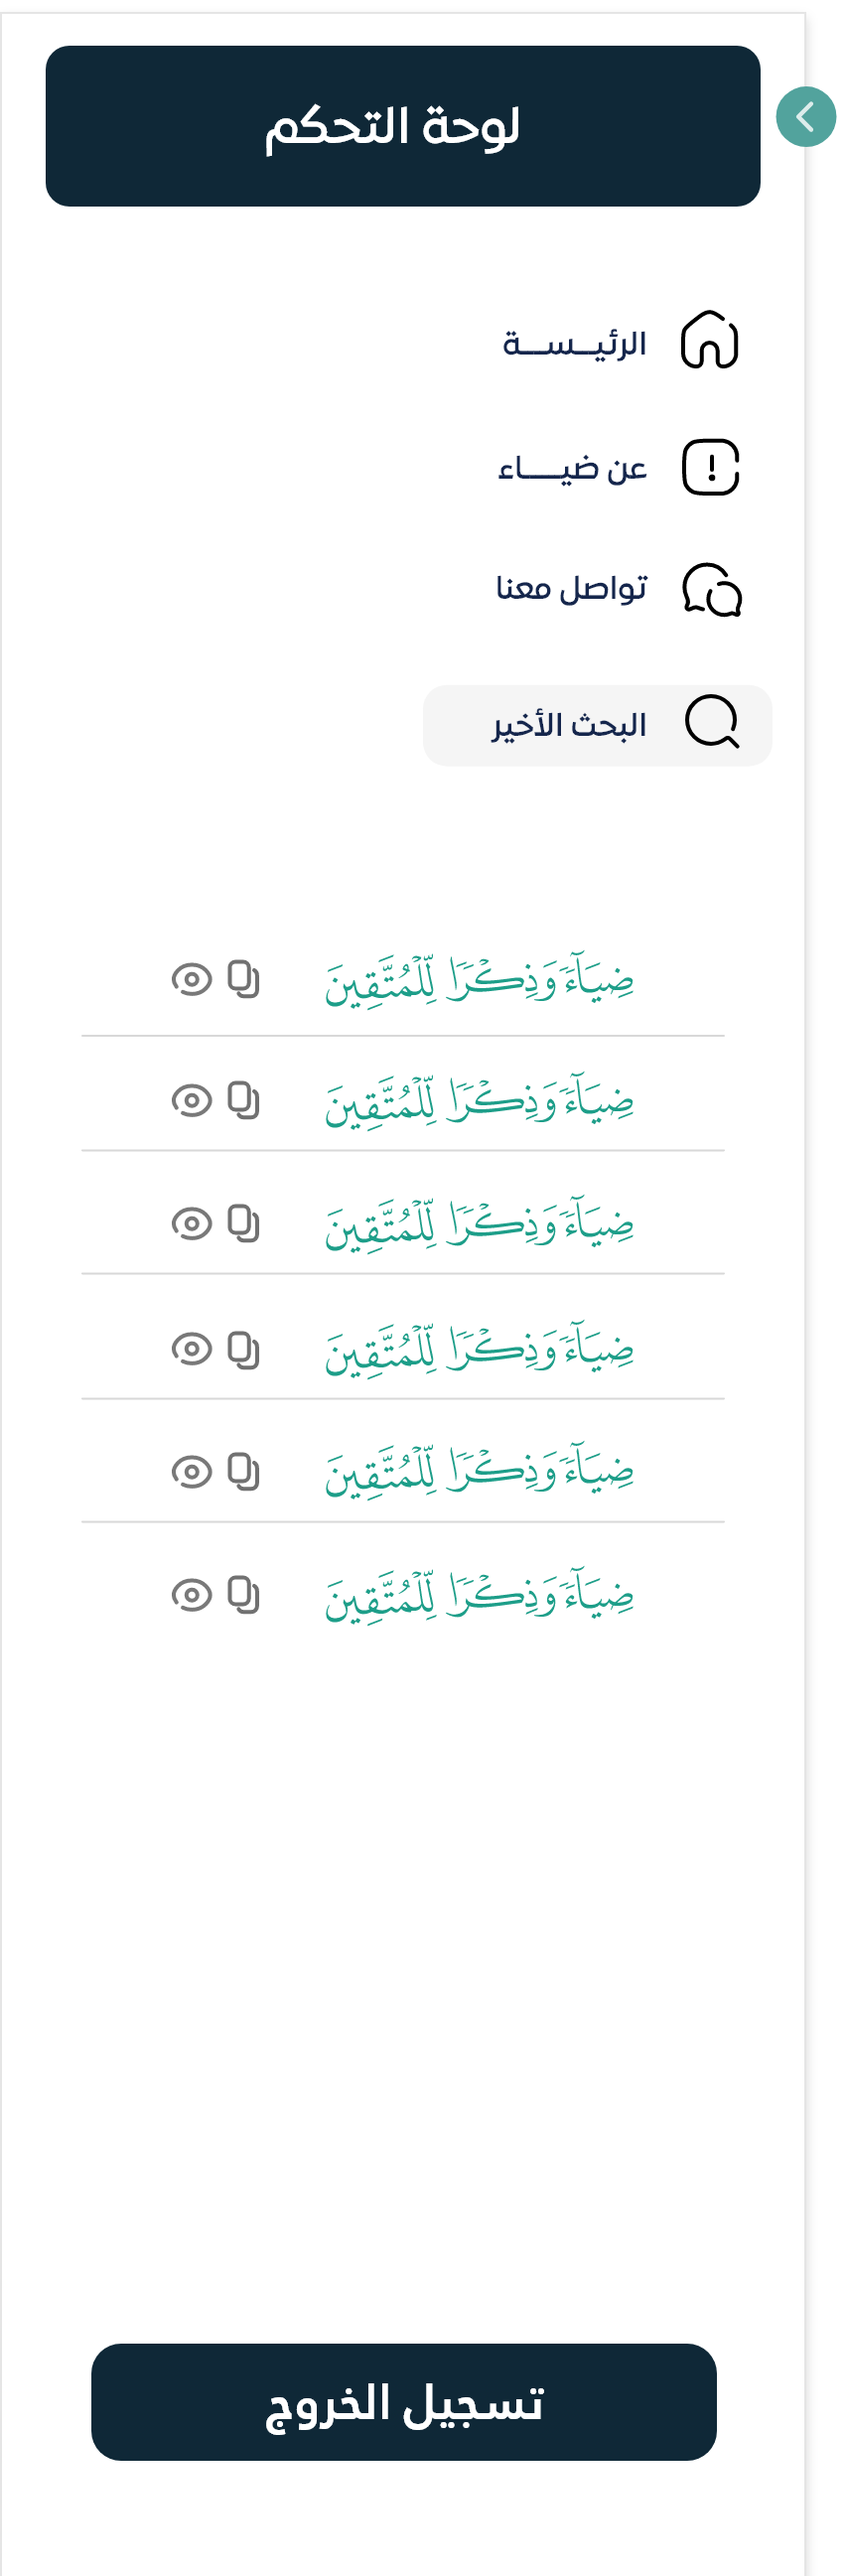
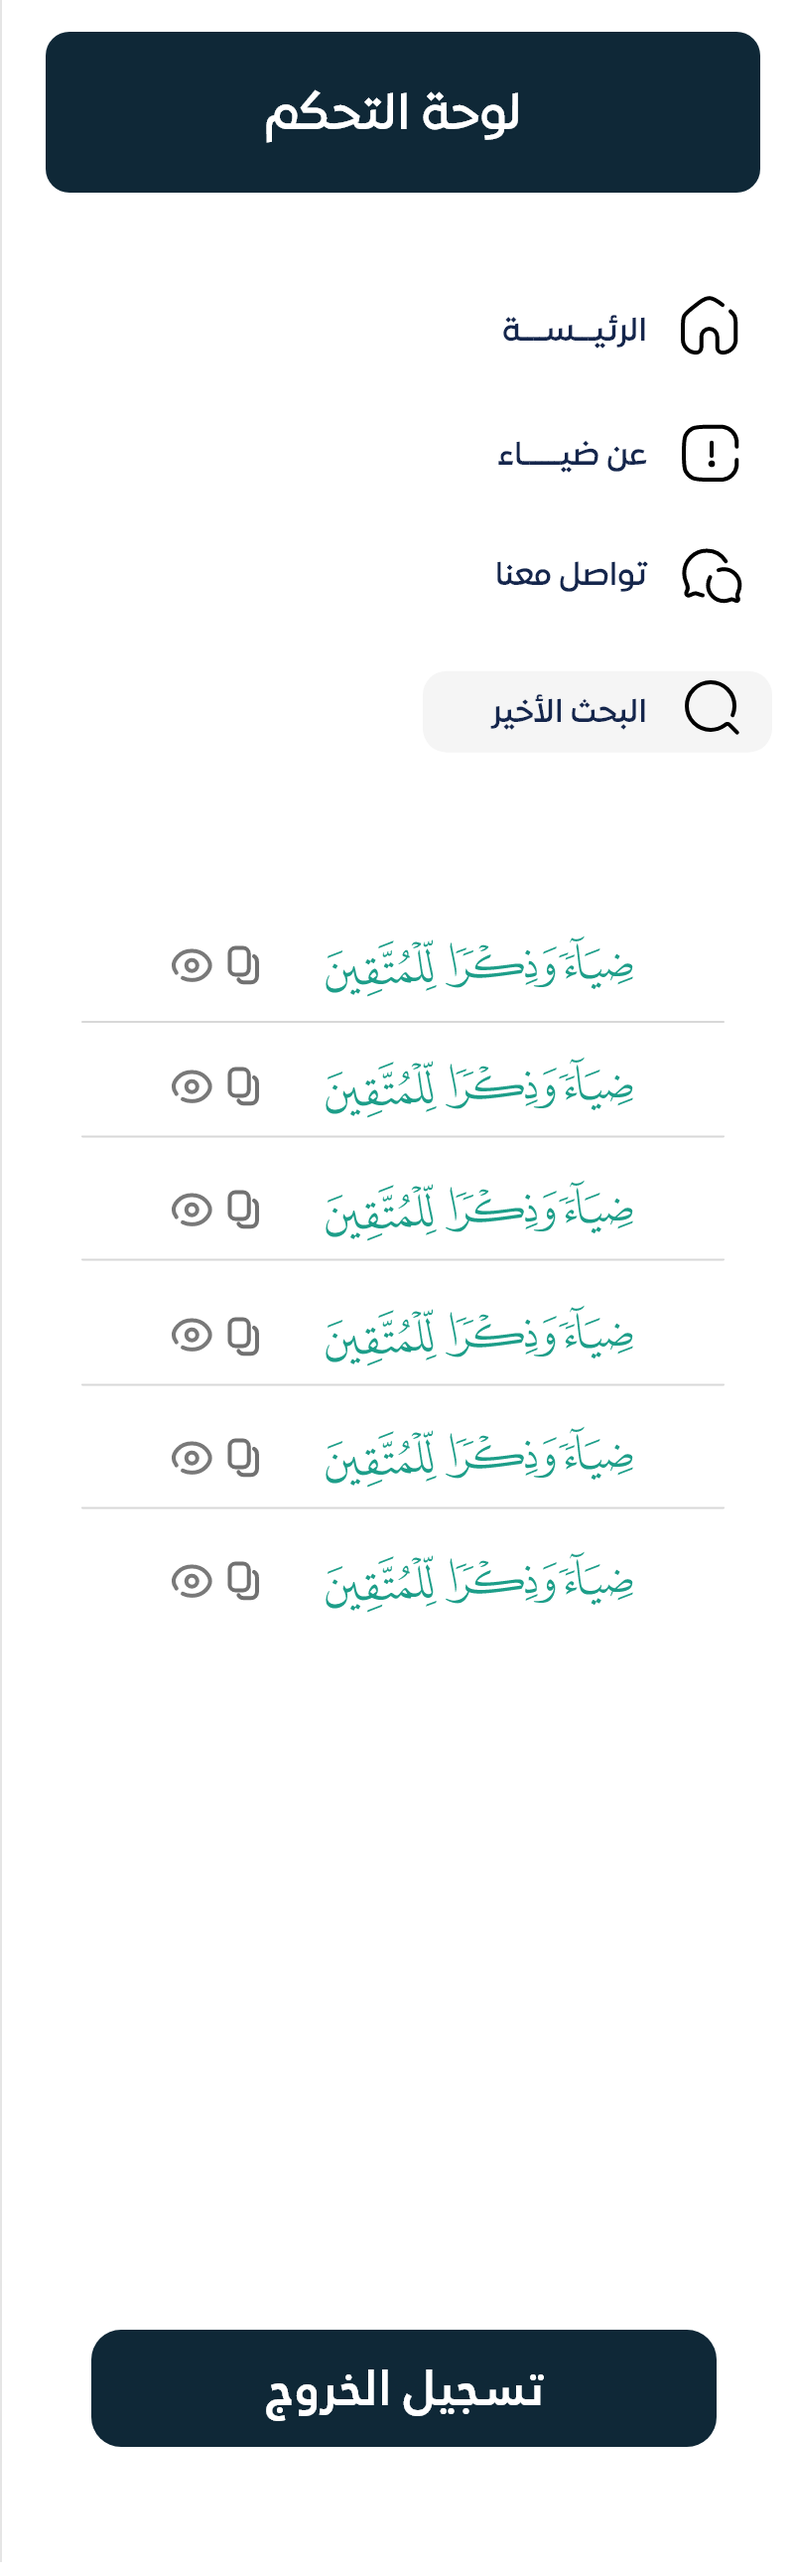
update all

diff --git a/static/js/main.js b/static/js/main.js
@@ -1,21 +1,50 @@
 $(document).ready(function () {
 
+    let image_src = null;
+
+    $('#attach').click(function() {
+        $('#image').click();
+    });
+
+    // When a file is selected, display the image preview
+    $('#image').change(function() {
+        if (this.files && this.files[0]) {
+            $('#text').val(this.files[0].name);
+
+            var reader = new FileReader();
+            reader.onload = function(e) {
+                image_src = e.target.result;
+            }
+            reader.readAsDataURL(this.files[0]);
+        }
+    });
+
     $('#send').on('click', function (event) {
 
         let prompt_text = $('#text').val();
-        let prompt_html = "<div class='row user-prompt'><div class='col-1'><img src='../static/img/user.png' class='user'></div><div class='col prompt'><p class='text'>"+prompt_text+"</p><img class='img'/><p class='video'></p></div></div>";
+        let prompt_html = "<div class='row user-prompt'><div class='col-1'><img src='../static/img/user.png' class='user'></div><div class='col prompt'><p class='text'>"+prompt_text+"</p></div></div>";
         let service_url = "/process_text";
-        $('#chat-body').append(prompt_html);
+        let prompt_data = {text: prompt_text};
         if (isUrl(prompt_text)) {
-            let service_url = "/process_video";
+            service_url = "/process_video";
+            service_url = "/process_text";
         } 
+        if (image_src!=null) {
+            service_url = "/process_image";
+            prompt_html = "<div class='row user-prompt'><div class='col-1'><img src='../static/img/user.png' class='user'></div><div class='col prompt'><img src='"+image_src+"' width='400'/></div></div>";
+            prompt_data = new FormData($('#form')[0]);
+            console.log(prompt_data);
+        }
+        $('#chat-body').append(prompt_html);
+        console.log(service_url);
 
         $.ajax({
-            data: {
-                text: prompt_text
-            },
+            data: prompt_data,
             type: "POST",
             url: service_url,
+            cache: false,
+            processData: false,
+            contentType: false,
         }).done(function (data) {
 
             if (data.response) {
@@ -35,6 +64,9 @@ $(document).ready(function () {
             let response_html = "<div class='row diyaa-response'><div class='col-1'><img src='../static/img/logo.png' class='diyaa'></div><div class='col response'><p class='text' id='response'>"+response_text+"</p></div></div>";
             $('#chat-body').append(response_html);
         });
+
+        image_src = null;
+        $('#text').val("");
 
     });
 

diff --git a/templates/chat.html b/templates/chat.html
@@ -52,7 +52,7 @@
                   <img src="../static/img/line.png" class="line">
                 </div>
               </div>
-              <form>
+              <form id="form" name="form" enctype="multipart/form-data">
 
                 <div class="row" style="flex-direction: row;">
                   <img src="../static/img/logo.png" class="img-fluid" />
@@ -61,8 +61,9 @@
                     <div class="input-group mb-3" style="margin-bottom: 0 !important">
 
                       <button type="button" class="btn">
-                        <img src="../static/img/attach.png" class="attach">
+                        <img src="../static/img/attach.png" class="attach" id="attach">
                       </button>
+                      <input type="file" name="image" id="image" style="display:none" />
 
                       <input type="text" class="form-control" id="text" placeholder="أدخل نصا، رابط فيديو، أو أرفع صورة">
 

diff --git a/static/css/main.css b/static/css/main.css
@@ -86,6 +86,7 @@ img.index {
 
 .menu-area {
     padding: 10px;
+    border-right: 1px solid silver;
 }
 
 .chat-header img {

diff --git a/app.py b/app.py
@@ -7,19 +7,22 @@ Created on Thu Dec 27 16:03:55 2023
 
 from flask import Flask, render_template, request, jsonify
 import google.generativeai as genai
-from pytube import YouTube
-from moviepy.editor import *
-import speech_recognition as sr
-import stanza
+from gradio_client import Client
+from PIL import Image
+import io
+
 
 app = Flask(__name__)
 
 import sys
 print(sys.executable)
 
+client = Client("https://asalhi85-diyaa.hf.space/--replicas/ie5al/")
 apiKey = "AIzaSyBbdYBQywqEKWMCPkdktiu06xsT2I1Nlck"
 genai.configure(api_key = apiKey)
 model = genai.GenerativeModel('gemini-pro')
+model_img = genai.GenerativeModel('gemini-pro-vision')
+
 
 @app.route('/')
 def home():
@@ -65,91 +68,110 @@ def process_text():
 
 @app.route('/process_video', methods= ['POST'])
 def process_video():
-    vid_url = request.form['text']
-    
-    vid_text = extract_text_from(vid_url)
-    response_key_words = get_response_gemini_extract_key_words(vid_text,0.7,40,0.95,2048)
-    response = get_response_gemini(response_key_words.text,0.7,40,0.95,2048)
+    pass
 
-    text_response = response.text
-    return jsonify({'response': text_response})
+@app.route('/process_image', methods=['POST'])
+def process_image():
     
-def get_response_gemini(text,temperature,top_k,top_p,max_output_tokens):
+    if 'image' in request.files:
+        img = request.files['image']
+        if img.filename != '':
+            img = Image.open(io.BytesIO(img.read()))
+            response_img = get_response_gemini_img(img,0.7,40,0.95,2048)
+            response_img.resolve()
+            response_key_words = get_response_gemini_extract_key_words(response_img.text,0.7,40,0.95,2048)
+            response = get_response_gemini(response_key_words.text,0.7,40,0.95,2048)
 
-    prompt = "أذكر لي آية من القران الكريم تتحدث عن أحد هذه المواضيع او اكثر: "+ text + " واشرح الآيه وفسرها باللغة العربية."
-    response = model.generate_content(
-            prompt,
-            generation_config=genai.types.GenerationConfig(temperature=temperature, top_k=top_k, top_p=top_p,
-                max_output_tokens=max_output_tokens), safety_settings=[{
-            
-                    "category": "HARM_CATEGORY_DANGEROUS",        
-                    "threshold": "BLOCK_NONE",    
-                },   
-                {       
-                    "category": "HARM_CATEGORY_HARASSMENT",       
-                    "threshold": "BLOCK_NONE",   
-                },    
-                {       
-                    "category": "HARM_CATEGORY_HATE_SPEECH",       
-                    "threshold": "BLOCK_NONE", 
-                },   
-                {       
-                    "category": "HARM_CATEGORY_SEXUALLY_EXPLICIT",       
-                    "threshold": "BLOCK_NONE",    
-                },  
-                {       
-                    "category": "HARM_CATEGORY_DANGEROUS_CONTENT",       
-                    "threshold": "BLOCK_NONE",   
-                }])
-    
-    return response
+    return jsonify({'response': response.text})
 
-def get_response_gemini_extract_key_words(text,temperature,top_k,top_p,max_output_tokens):
-  prompt= "استخرج كلمات مفتاحية من النص التالي: "+text
-  response = model.generate_content(
-        prompt,
+def get_response_gemini_img(img,temperature,top_k,top_p,max_output_tokens):
+  prompt= "اكتب لي وصف عن الصورة المرفقة "
+  response = model_img.generate_content(
+        [prompt, img],
         generation_config=genai.types.GenerationConfig(temperature=temperature, top_k=top_k, top_p=top_p,
-               max_output_tokens=max_output_tokens), safety_settings=[{
-           
-                   "category": "HARM_CATEGORY_DANGEROUS",        
-                   "threshold": "BLOCK_NONE",    
-               },   
-               {       
-                   "category": "HARM_CATEGORY_HARASSMENT",       
-                   "threshold": "BLOCK_NONE",   
-               },    
-               {       
-                   "category": "HARM_CATEGORY_HATE_SPEECH",       
-                   "threshold": "BLOCK_NONE", 
-               },   
-               {       
-                   "category": "HARM_CATEGORY_SEXUALLY_EXPLICIT",       
-                   "threshold": "BLOCK_NONE",    
-               },  
-               {       
-                   "category": "HARM_CATEGORY_DANGEROUS_CONTENT",       
-                   "threshold": "BLOCK_NONE",   
-               }])
+            max_output_tokens=max_output_tokens),stream=True, safety_settings = [
+    {
+        "category": "HARM_CATEGORY_DANGEROUS",
+        "threshold": "BLOCK_NONE",
+    },
+    {
+        "category": "HARM_CATEGORY_HARASSMENT",
+        "threshold": "BLOCK_NONE",
+    },
+    {
+        "category": "HARM_CATEGORY_HATE_SPEECH",
+        "threshold": "BLOCK_NONE",
+    },
+    {
+        "category": "HARM_CATEGORY_SEXUALLY_EXPLICIT",
+        "threshold": "BLOCK_NONE",
+    },
+    {
+        "category": "HARM_CATEGORY_DANGEROUS_CONTENT",
+        "threshold": "BLOCK_NONE",
+    },])
 
   return response
 
-def extract_text_from(vid_link):
-    yt = YouTube(vid_link)
-    text = ""
-    audio_stream = yt.streams.get_audio_only()
-    audio_stream.download(filename='tmp.mp4')
-    audio_clip = AudioFileClip('tmp.mp4')
-    audio_clip.write_audiofile('tmp.wav')
-    r = sr.Recognizer()
-    with sr.AudioFile('tmp.wav') as source:
-      audio_data = r.record(source)
-      try:
-          text = r.recognize_google(audio_data,  language='ar')
-      except sr.UnknownValueError:
-          print("Google Speech Recognition could not understand audio")
-      except sr.RequestError as e:
-          print("Could not request results from Google Speech Recognition service; {0}".format(e))
-      return text
+def get_response_gemini(text,temperature,top_k,top_p,max_output_tokens):
+    prompt= "اذكر لي آية من القرآن الكريم تتحدث عن :"+ text + ". و اشرح لي الآيه حسب تفسير تقدر تختار تفسير بن سعدي وارجوا ان لا تترجم اي نص الى لغة اخرى غير العربية عند الشرح"
+    response = model.generate_content(
+        prompt,
+        generation_config=genai.types.GenerationConfig(temperature=temperature, top_k=top_k, top_p=top_p,
+            max_output_tokens=max_output_tokens), safety_settings = [
+    {
+        "category": "HARM_CATEGORY_DANGEROUS",
+        "threshold": "BLOCK_NONE",
+    },
+    {
+        "category": "HARM_CATEGORY_HARASSMENT",
+        "threshold": "BLOCK_NONE",
+    },
+    {
+        "category": "HARM_CATEGORY_HATE_SPEECH",
+        "threshold": "BLOCK_NONE",
+    },
+    {
+        "category": "HARM_CATEGORY_SEXUALLY_EXPLICIT",
+        "threshold": "BLOCK_NONE",
+    },
+    {
+        "category": "HARM_CATEGORY_DANGEROUS_CONTENT",
+        "threshold": "BLOCK_NONE",
+    },])
 
+    return response
+
+
+def get_response_gemini_extract_key_words(text,temperature,top_k,top_p,max_output_tokens):
+    prompt= "استخرج كلمات مفتاحية من النص التالي: "+text
+    response = model.generate_content(
+        prompt,
+        generation_config=genai.types.GenerationConfig(temperature=temperature, top_k=top_k, top_p=top_p,
+            max_output_tokens=max_output_tokens), safety_settings = [
+    {
+        "category": "HARM_CATEGORY_DANGEROUS",
+        "threshold": "BLOCK_NONE",
+    },
+    {
+        "category": "HARM_CATEGORY_HARASSMENT",
+        "threshold": "BLOCK_NONE",
+    },
+    {
+        "category": "HARM_CATEGORY_HATE_SPEECH",
+        "threshold": "BLOCK_NONE",
+    },
+    {
+        "category": "HARM_CATEGORY_SEXUALLY_EXPLICIT",
+        "threshold": "BLOCK_NONE",
+    },
+    {
+        "category": "HARM_CATEGORY_DANGEROUS_CONTENT",
+        "threshold": "BLOCK_NONE",
+    },])
+
+    return response
+
+    
 if __name__ == "__main__":
     app.run(debug=True)
